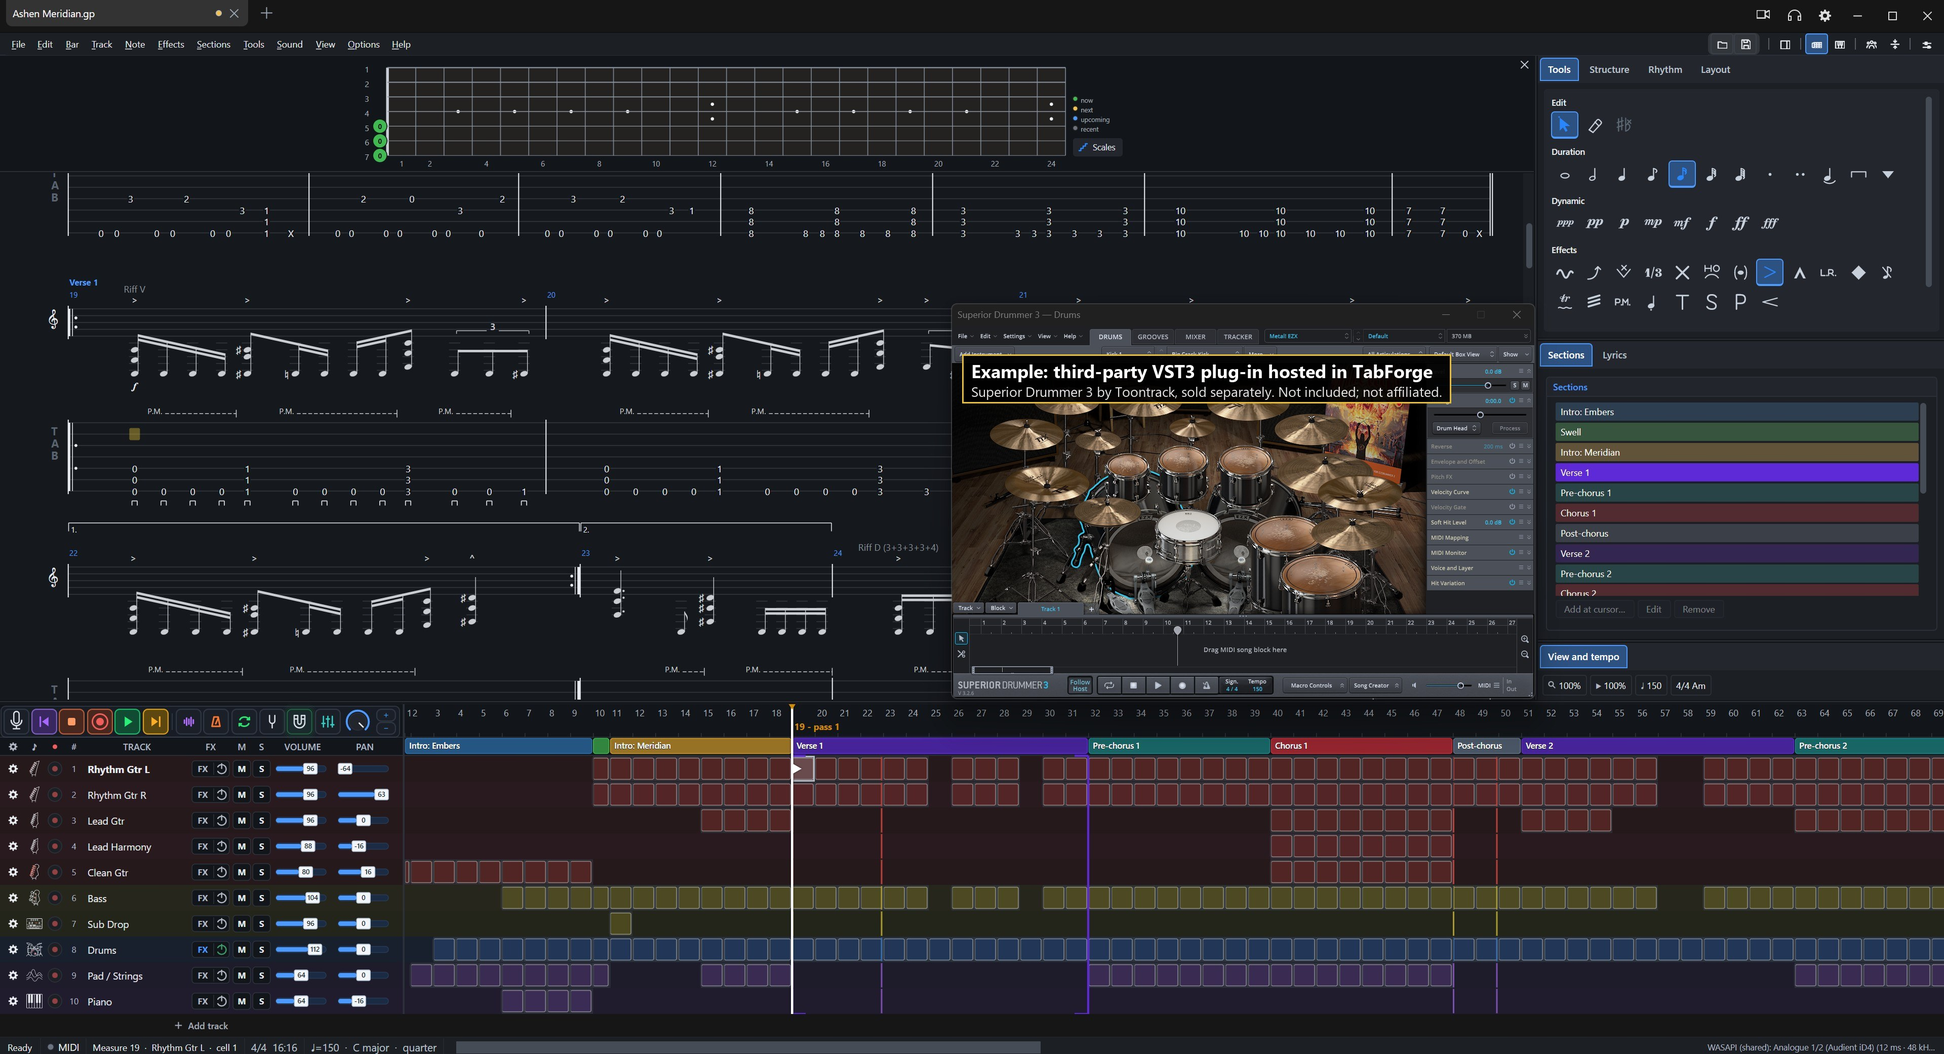
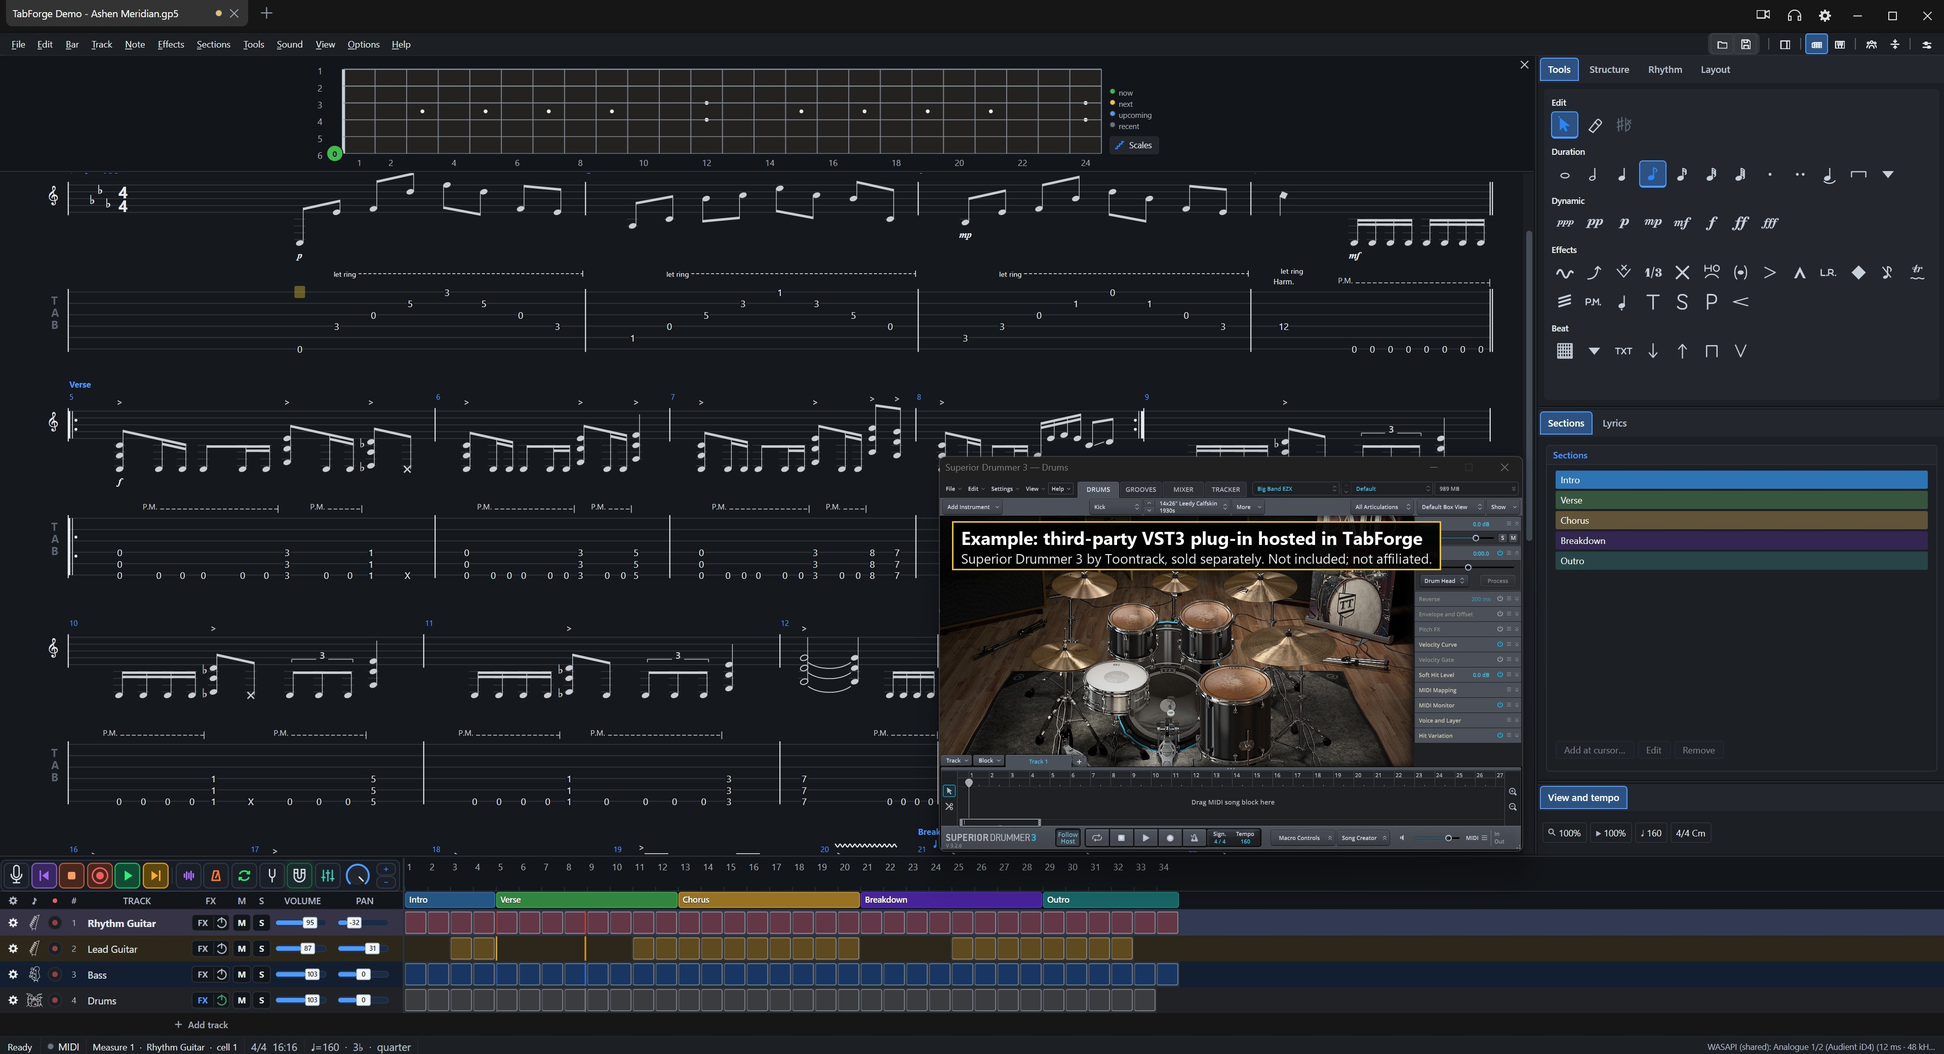
TabForge 0.8.0: floating plug-in windows per song, clip click seeks, audio tracks without score, new hero

diff --git a/src/TabForge.Avalonia/Views/Fx/FloatingEditors.cs b/src/TabForge.Avalonia/Views/Fx/FloatingEditors.cs
@@ -1,0 +1,108 @@
+using System;
+using System.Collections.Generic;
+using System.Linq;
+using TabForge.Documents;
+using TabForge.Models;
+using TabForge.Plugins;
+
+namespace TabForge.Avalonia.Views.Fx;
+
+// Owns: the plug-ins whose editor floats in its own window, per track, and the song each belongs to: hiding them with their song's tab, showing them again, closing them
+//   with the song, the plug-in or the track. They outlive the FX window that opened them, so nothing about them lives in the window or its controller.
+// Does not own: the native windows (the engine), the FX windows (FxChainWindows drives this registry on tab switch, song close and chain edits).
+// Tests: TabForge.Avalonia.Tests.FloatingEditorsTests.
+// Threads: UI thread only.
+public static class FloatingEditors
+{
+    /// <summary>The floating plug-ins of one track.</summary>
+    public sealed class Set
+    {
+        private readonly HashSet<PluginSlot> _slots = new(ReferenceEqualityComparer.Instance);
+        public Set(TrackModel track) => Track = track;
+        public TrackModel Track { get; }
+        /// <summary>The song the track belongs to (null: a track of no song, never hidden).</summary>
+        public SongDocument? Document { get; private set; }
+        /// <summary>The engine that holds the windows.</summary>
+        public IFxChainEngine? Engine { get; private set; }
+        public bool OnTop { get; private set; }
+        /// <summary>The windows are closed because the song's tab is not shown; they open again with it.</summary>
+        public bool Hidden { get; set; }
+        public int Count => _slots.Count;
+        public IReadOnlyCollection<PluginSlot> Slots => _slots;
+        public bool Contains(PluginSlot slot) => _slots.Contains(slot);
+
+        public void Add(PluginSlot slot, SongDocument? document, IFxChainEngine? engine, bool onTop)
+        {
+            (Document, Engine, OnTop) = (document, engine, onTop);
+            if (_slots.Add(slot) && !All.Contains(this)) All.Add(this);
+        }
+
+        public bool Remove(PluginSlot slot)
+        {
+            var removed = _slots.Remove(slot);
+            if (_slots.Count == 0) Clear();
+            return removed;
+        }
+
+        public void Clear() { _slots.Clear(); All.Remove(this); Hidden = false; }
+    }
+
+    private static readonly System.Runtime.CompilerServices.ConditionalWeakTable<TrackModel, Set> ByTrack = new();
+    private static readonly List<Set> All = new();
+
+    public static Set Of(TrackModel track) => ByTrack.GetValue(track, t => new Set(t));
+
+    private static List<Set> OfSong(SongDocument song) => All.Where(s => ReferenceEquals(s.Document, song)).ToList();
+
+    /// <summary>Closes the windows of the song's floating plug-ins and forgets them (the song's tab closes).</summary>
+    public static void CloseSong(SongDocument song)
+    {
+        foreach (var set in OfSong(song)) CloseAll(set);
+    }
+
+    /// <summary>Closes the windows of the plug-ins that left their track, and of tracks that left the song.</summary>
+    public static void Prune(SongDocument song)
+    {
+        foreach (var set in OfSong(song))
+        {
+            if (set.Track.IsBus) continue;
+            if (!song.Project.Tracks.Contains(set.Track)) { CloseAll(set); continue; }
+            foreach (var slot in set.Slots.Where(s => !set.Track.Rig.Plugins.Contains(s)).ToList())
+            {
+                if (!set.Hidden) set.Engine?.CloseEditor(set.Track, slot);
+                set.Remove(slot);
+            }
+        }
+    }
+
+    /// <summary>The songs of <paramref name="held"/> other than <paramref name="shown"/> hide their floating windows; the shown song's hidden ones open again over <paramref name="owner"/>.</summary>
+    public static void SongShown(IEnumerable<SongDocument> held, SongDocument shown, IntPtr owner, bool dark)
+    {
+        foreach (var song in held)
+            foreach (var set in OfSong(song))
+                if (!ReferenceEquals(song, shown)) Hide(set);
+                else Show(set, owner, dark);
+    }
+
+    private static void Hide(Set set)
+    {
+        if (set.Hidden || set.Engine is not { } engine) return;
+        foreach (var slot in set.Slots) engine.CloseEditor(set.Track, slot);
+        set.Hidden = true;
+    }
+
+    private static void Show(Set set, IntPtr owner, bool dark)
+    {
+        if (!set.Hidden || set.Engine is not { } engine) return;
+        var failed = false;
+        foreach (var slot in set.Slots.ToList())
+            if (!engine.OpenEditor(set.Track, slot, owner, dark, docked: false, onTop: set.OnTop)) failed = true;   // the engine has not taken the song yet: a later call retries
+        set.Hidden = failed;
+    }
+
+    private static void CloseAll(Set set)
+    {
+        if (!set.Hidden) foreach (var slot in set.Slots.ToList()) set.Engine?.CloseEditor(set.Track, slot);
+        set.Clear();
+    }
+}

diff --git a/src/TabForge.Avalonia/Platform/ScorePreviewView.cs b/src/TabForge.Avalonia/Platform/ScorePreviewView.cs
@@ -1,4 +1,4 @@
-using TabForge.Avalonia.Transport;
+using TabForge.Avalonia.Transport;
 using TabForge.Avalonia.Views;
 using System;
 using Avalonia;
@@ -79,10 +79,26 @@ public sealed partial class ScorePreviewView : Control
     internal ScoreEmptyState ScoreState(bool overBeat = false) => MenuStateSource is { } source ? source() with { OverBeat = overBeat } : new(OverBeat: overBeat, CanPaste: false, ShowNotation: _probe.Notation != NotationMode.TabOnly,
         Continuous: _probe.Appearance.CenterSystems, Horizontal: _probe.HorizontalScroll, ShowOutline: _probe.Appearance.ShowNoteOutline);
 
+    private const string AudioPlaceholderText = "Audio track — no score. Select a tab or MIDI track to see its score.";
+    private bool _audioPlaceholder;   // an audio track is shown: no score is laid out or drawn, only a centred note
+
+    /// <summary>True while the view shows the audio-track note instead of a score.</summary>
+    internal bool ShowsAudioPlaceholder => _audioPlaceholder;
+
+    private void DrawAudioPlaceholder(DrawingContext context)
+    {
+        var d = _draw.Use(context);
+        var light = ActualThemeVariant == ThemeVariant.Light;
+        var text = d.Text(AudioPlaceholderText, InstrumentPanelView.Font, 13, AvaloniaPalette.Get("InstrumentMuted", light), d.PixelsPerDip);
+        d.DrawText(text, Bounds.Width / 2 - text.Width / 2, Bounds.Height / 2 - text.Height / 2);
+    }
+
     /// <summary>Draws track <paramref name="index"/> of the shown song (a Band panel's staff); the whole-song score keeps track 0.</summary>
     public void ShowTrack(int index)
     {
         _probe.ShowTrack(index);
+        var audio = _probe.Track is { IsAudio: true };
+        if (audio != _audioPlaceholder) { _audioPlaceholder = audio; InvalidateMeasure(); }
         InvalidateVisual();
         CursorChanged?.Invoke();
     }
@@ -422,6 +438,7 @@ public sealed partial class ScorePreviewView : Control
 
     public override void Render(DrawingContext context)
     {
+        if (_audioPlaceholder) { DrawAudioPlaceholder(context); return; }
         // The paper belongs to the shown song (LightPaper), not to the theme: the document panes set it on every tab switch.
         // A view with no song (a proof, a standalone preview) has no override and follows the theme it is rendered in.
         if (_paperOverride is null) _probe.Light = ActualThemeVariant == ThemeVariant.Light;

diff --git a/src/TabForge.Avalonia/Views/Fx/FxChainWindows.cs b/src/TabForge.Avalonia/Views/Fx/FxChainWindows.cs
@@ -27,6 +27,7 @@ public sealed class FxChainWindows
     private readonly MainWindowSettings? _settings;
     private readonly PluginTrust _trust;
     private readonly Dictionary<(SongDocument Document, string Track), FxChainWindow> _open = new();
+    private readonly Dictionary<SongDocument, EventHandler> _pruning = new();   // per song: floating editors of removed plug-ins and tracks close even with no chain window open
 
     /// <param name="owner">The main window the chain windows open over.</param>
     /// <param name="active">The song that is shown now; a chain window edits the song it was opened on.</param>
@@ -76,6 +77,7 @@ public sealed class FxChainWindows
         var host = new SongFxChainHost(document, _playback, _settings, () => _owner, () => TrackListChanged?.Invoke(), _trust);
         var window = new FxChainWindow(host, track);
         _open[key] = window;
+        Watch(document);
         EventHandler changed = (_, _) => Follow(document, key.Item2, window);
         document.DisplayStateChanged += changed;
         window.Closed += (_, _) =>
@@ -153,6 +155,23 @@ public sealed class FxChainWindows
     public void CloseSong(SongDocument song)
     {
         foreach (var (key, window) in _open.ToList()) if (ReferenceEquals(key.Document, song)) window.Close();
+        FloatingEditors.CloseSong(song);
+        if (_pruning.Remove(song, out var prune)) song.DisplayStateChanged -= prune;
+    }
+
+    private void Watch(SongDocument document)
+    {
+        if (_pruning.ContainsKey(document)) return;
+        EventHandler prune = (_, _) => FloatingEditors.Prune(document);
+        _pruning[document] = prune;
+        document.DisplayStateChanged += prune;
+    }
+
+    /// <summary>The shown song changed: the other songs' floating plug-in windows hide, the shown song's open again. Call again once the engine took the song (a refused open retries).</summary>
+    public void SongShown(IEnumerable<SongDocument> held)
+    {
+        var handle = _owner.TryGetPlatformHandle()?.Handle ?? IntPtr.Zero;
+        FloatingEditors.SongShown(held, _active(), handle, _owner.ActualThemeVariant != global::Avalonia.Styling.ThemeVariant.Light);
     }
 
     /// <summary>The monitor switched between the app-wide chain and the song's own: its window closes and reopens on the other chain (as WPF does).</summary>

diff --git a/tests/TabForge.Avalonia.Tests/FloatingEditorsTests.cs b/tests/TabForge.Avalonia.Tests/FloatingEditorsTests.cs
@@ -1,0 +1,58 @@
+using System;
+using System.Linq;
+using TabForge.Avalonia.Views.Fx;
+using TabForge.Documents;
+using TabForge.Models;
+using TabForge.Plugins;
+using Xunit;
+
+namespace TabForge.Avalonia.Tests;
+
+/// <summary>
+/// Owns: floating plug-in windows belonging to their song: hidden when another tab shows, shown again, closed with the song and with a removed plug-in even when no FX window is open.
+/// Does not own: the registry (production class).
+/// Tests: this class.
+/// </summary>
+public class FloatingEditorsTests
+{
+    private static (SongDocument Song, TrackModel Track, PluginSlot Slot, FxTestKit.FakeEngine Engine) Floating()
+    {
+        var song = new SongDocument(() => null) { Project = SongDocument.BlankProject() };
+        var track = song.Project.Tracks[0];
+        var slot = new PluginSlot { Name = "Drums" };
+        track.Rig.Plugins = new System.Collections.Generic.List<PluginSlot> { slot };
+        var engine = new FxTestKit.FakeEngine();
+        FloatingEditors.Of(track).Add(slot, song, engine, false);
+        return (song, track, slot, engine);
+    }
+
+    [Fact]
+    public void SwitchingToAnotherSongHidesAndSwitchingBackShows()
+    {
+        var (a, _, _, engine) = Floating();
+        var b = new SongDocument(() => null) { Project = SongDocument.BlankProject() };
+        FloatingEditors.SongShown(new[] { a, b }, b, IntPtr.Zero, true);
+        Assert.Equal(new[] { "close:Drums" }, engine.Calls.Where(c => c.StartsWith("close")));
+        FloatingEditors.SongShown(new[] { a, b }, a, IntPtr.Zero, true);
+        Assert.Contains("open:Drums:float:False", engine.Calls);
+        FloatingEditors.CloseSong(a);
+    }
+
+    [Fact]
+    public void ClosingTheSongClosesItsFloatingEditor()
+    {
+        var (a, _, _, engine) = Floating();
+        FloatingEditors.CloseSong(a);
+        Assert.Contains("close:Drums", engine.Calls);
+    }
+
+    [Fact]
+    public void RemovingThePluginClosesItsFloatingEditorWithNoFxWindow()
+    {
+        var (a, track, slot, engine) = Floating();
+        track.Rig.Plugins = new System.Collections.Generic.List<PluginSlot>();
+        FloatingEditors.Prune(a);
+        Assert.Contains("close:Drums", engine.Calls);
+        Assert.False(FloatingEditors.Of(track).Contains(slot));
+    }
+}

diff --git a/src/TabForge.Avalonia/Views/Fx/FxEditorController.cs b/src/TabForge.Avalonia/Views/Fx/FxEditorController.cs
@@ -30,8 +30,7 @@ public sealed class FxEditorController : IDisposable
     private readonly Action _editorClosed;
     private readonly Func<IntPtr>? _popup;
     private readonly IUiTimer? _openCheck;
-    private static readonly System.Runtime.CompilerServices.ConditionalWeakTable<TrackModel, HashSet<PluginSlot>> FloatingByTrack = new();   // floating plug-in windows outlive the FX window that opened them
-    private readonly HashSet<PluginSlot> _floating;
+    private readonly FloatingEditors.Set _floating;   // floating plug-in windows outlive the FX window that opened them: the registry holds them per track and song
     private readonly HashSet<PluginSlot> _opened = new(ReferenceEqualityComparer.Instance);   // docked editors that showed once: their next open is quick
     private PluginSlot? _docked;
     private PluginSlot? _loading;
@@ -45,7 +44,7 @@ public sealed class FxEditorController : IDisposable
         Func<PluginSlot?> focused, Action reshow, Action editorClosed, Func<IntPtr>? popup = null)
     {
         (_host, _track, _area, _ui, _ownerHandle, _dark, _focused, _reshow, _editorClosed, _popup) = (host, track, area, ui, ownerHandle, dark, focused, reshow, editorClosed, popup);
-        _floating = FloatingByTrack.GetValue(track, _ => new HashSet<PluginSlot>(ReferenceEqualityComparer.Instance));
+        _floating = FloatingEditors.Of(track);
         if (popup is not null)
         {
             _openCheck = ui.CreateTimer(TimeSpan.FromMilliseconds(OpenCheckMs));
@@ -155,7 +154,7 @@ public sealed class FxEditorController : IDisposable
     public void Float(PluginSlot slot)
     {
         if (ReferenceEquals(_docked, slot)) CloseDocked();
-        _floating.Add(slot);
+        _floating.Add(slot, (_host as SongFxChainHost)?.Document, _host.Engine, _host.PluginSettings.PluginWindowsOnTop);
         var opened = _host.Engine?.OpenEditor(_track, slot, _ownerHandle(), _dark(), docked: false, onTop: _host.PluginSettings.PluginWindowsOnTop) == true;
         if (!opened) _area.ShowNotice(FxEditorPlan.FloatNeedsChainNotice, null);
         else if (ReferenceEquals(_focused(), slot)) _area.ShowNotice(FxEditorPlan.FloatingNotice, FxEditorPlan.ButtonFor(FxEditorMode.Floating, _host.PluginSettings.DockPluginWindows));

diff --git a/src/TabForge.Avalonia/Views/TimelineInputController.cs b/src/TabForge.Avalonia/Views/TimelineInputController.cs
@@ -415,7 +415,11 @@ public sealed partial class TimelineInputController
             }
             // A plain click on a clip selects it and moves the playhead to its start (the score scrolls there); Ctrl or Shift on a clip only changes the white.
             // Any other press on the ruler, a section or a lane moves the playhead to its bar (pass 1 on the old bar path). The loop region always stays.
-            else if (clip is not null) { if (!ctrl && !_pressShift && clipBar >= 0 && clipBar < _view.BarCount) BarSeekRequested?.Invoke(clipBar); }
+            else if (clip is not null)
+            {
+                var seekBar = _pressBar >= 0 && _pressBar < _view.BarCount ? _pressBar : clipBar;   // the bar under the pointer, not the clip start
+                if (!ctrl && !_pressShift && seekBar >= 0 && seekBar < _view.BarCount) BarSeekRequested?.Invoke(seekBar);
+            }
             else if (ctrl && TabCellAt(_pressPoint) is not null) { }   // Ctrl+click on a tab cell only toggles it: the playhead and the score cursor stay
             else if (_pressBar >= 0 && _pressBar < _view.BarCount) BarSeekRequested?.Invoke(_pressBar);
             if (_dragSlot < 0 && !(_pressOnRuler && alt)) _selection.Batch(() => ClickSelect(clip, clipBar, ctrl));   // the click's changes reach the views as one

diff --git a/src/TabForge.Avalonia/MainWindow.ComposeCommands.cs b/src/TabForge.Avalonia/MainWindow.ComposeCommands.cs
@@ -71,6 +71,11 @@ public sealed partial class MainWindow
         MainWindowClipEditKeys.Register(commands, songs, panes, showStatus);
         var fxWindows = MainWindowTrackFxKeys.Register(commands, songs, this, playback, settings, compose.Registry.Services.Trust);
         songs.SongClosing += song => fxWindows.CloseSong(song);
+        songs.ActiveChanged += () =>
+        {
+            fxWindows.SongShown(songs.Songs);   // the other songs' floating plug-in windows hide now; the shown song's open again once the engine took it
+            global::Avalonia.Threading.Dispatcher.UIThread.Post(() => fxWindows.SongShown(songs.Songs), global::Avalonia.Threading.DispatcherPriority.Background);
+        };
         MainWindowTrackFxCells.Register(panes, songs, this, playback, () => settings?.Settings.Plugins ?? new TabForge.Services.PluginSettings(), fxWindows);
         MainWindowClipProperties.Register(commands, songs, panes, this, showStatus);
         MainWindowSectionEdit.Register(commands, songs, scorePreview, this);

diff --git a/tests/TabForge.Avalonia.Tests/TimelineClickSeekTests.cs b/tests/TabForge.Avalonia.Tests/TimelineClickSeekTests.cs
@@ -48,7 +48,7 @@ public class TimelineClickSeekTests
     private static Point RulerAt(TimelineView view, int bar) => new(view.BarX(bar) + 5, TimelineView.RulerHeight / 2);
 
     [AvaloniaFact]
-    public void ClickOnClipSelectsItAndMovesThePlayheadToItsStart()
+    public void ClickMidClipSeeksToClickedBarNotClipStart()
     {
         var (w, v, input, _, track, clip) = OpenWithClip();
         var seeks = new List<int>();
@@ -61,7 +61,9 @@ public class TimelineClickSeekTests
         w.Close();
         Assert.NotNull(v.SelectedClip);
         Assert.Equal(clip, v.SelectedClip!.Clip);
-        Assert.Equal(new[] { TabForge.Presenters.AudioClipTimelineRules.BarAtSeconds(v.Song, clip.StartSec).Bar }, seeks);
+        var expected = Enumerable.Range(0, v.BarCount).Last(b => v.BarX(b) <= press.X);
+        Assert.Equal(new[] { expected }, seeks);
+        Assert.NotEqual(TabForge.Presenters.AudioClipTimelineRules.BarAtSeconds(v.Song, clip.StartSec).Bar, expected);
     }
 
     [AvaloniaFact]

diff --git a/tests/TabForge.Avalonia.Tests/ScoreAudioPlaceholderTests.cs b/tests/TabForge.Avalonia.Tests/ScoreAudioPlaceholderTests.cs
@@ -1,0 +1,25 @@
+using Avalonia.Headless.XUnit;
+using TabForge.Avalonia.Platform;
+using TabForge.Services;
+using Xunit;
+
+namespace TabForge.Avalonia.Tests;
+
+/// <summary>
+/// Owns: an audio track shown in the score pane gives the placeholder note, not a score; a non-audio track restores the score.
+/// Tests: ScorePreviewView.ShowTrack / ShowsAudioPlaceholder.
+/// </summary>
+public class ScoreAudioPlaceholderTests
+{
+    [AvaloniaFact]
+    public void AudioTrackShowsPlaceholderAndGuitarTrackRestoresScore()
+    {
+        var view = new ScorePreviewView();
+        var project = view.Editor.Project!;
+        project.Tracks.Add(NewTrackFactory.CreateTrack(project, Models.TrackKind.Audio));
+        view.ShowTrack(project.Tracks.Count - 1);
+        Assert.True(view.ShowsAudioPlaceholder);
+        view.ShowTrack(0);
+        Assert.False(view.ShowsAudioPlaceholder);
+    }
+}

diff --git a/src/TabForge.Avalonia/Platform/ScorePreviewView.Reflow.cs b/src/TabForge.Avalonia/Platform/ScorePreviewView.Reflow.cs
@@ -39,7 +39,12 @@ public sealed partial class ScorePreviewView : Control
 
     private (double Width, double Height) _measuredPage;
 
-    protected override Size MeasureOverride(Size availableSize) => PageExtent(this.FindAncestorOfType<ScrollViewer>());
+    protected override Size MeasureOverride(Size availableSize)
+    {
+        if (!_audioPlaceholder) return PageExtent(this.FindAncestorOfType<ScrollViewer>());
+        var viewport = this.FindAncestorOfType<ScrollViewer>()?.Viewport ?? default;   // no score to lay out: the note fills the viewer
+        return new Size(viewport.Width > 1 ? viewport.Width : 400, viewport.Height > 1 ? viewport.Height : 200);
+    }
 
     /// <summary>
     /// The page's size at the current zoom, worked out from the live layout and viewer (never a cached measure): the whole page, and in the

diff --git a/CHANGELOG.md b/CHANGELOG.md
@@ -95,6 +95,16 @@ TabForge is actively developed; please report anything odd on the Issues page.
   - Audit rounds for dead settings and code hygiene, with fixes; tests updated for the new selection and loop rules.
   - The audio engine ends with the app; engine logs are written per session.
 
+### Late fixes
+
+- Floating plug-in windows belong to their song: they hide when you switch songs and close with the song; closing the FX window keeps them open.
+- Clicking an audio or MIDI clip moves the playhead to the clicked bar, not the clip start.
+- Audio tracks show a short note in the score pane instead of an empty score.
+
+### Coming soon
+
+- MIDI piano roll editor for MIDI tracks (piano keys, note grid, velocity lane, editing tools).
+
 ## 0.7.7
 
 - **Playback**

diff --git a/README.md b/README.md
@@ -44,6 +44,7 @@ TabForge now runs on Avalonia, the first step toward running on more platforms i
 - **Section previous / next** moves the playhead.
 
 See the [changelog](CHANGELOG.md) for everything.
+- **Coming soon:** a MIDI piano roll editor for MIDI tracks.
 
 ## What sets it apart
 
